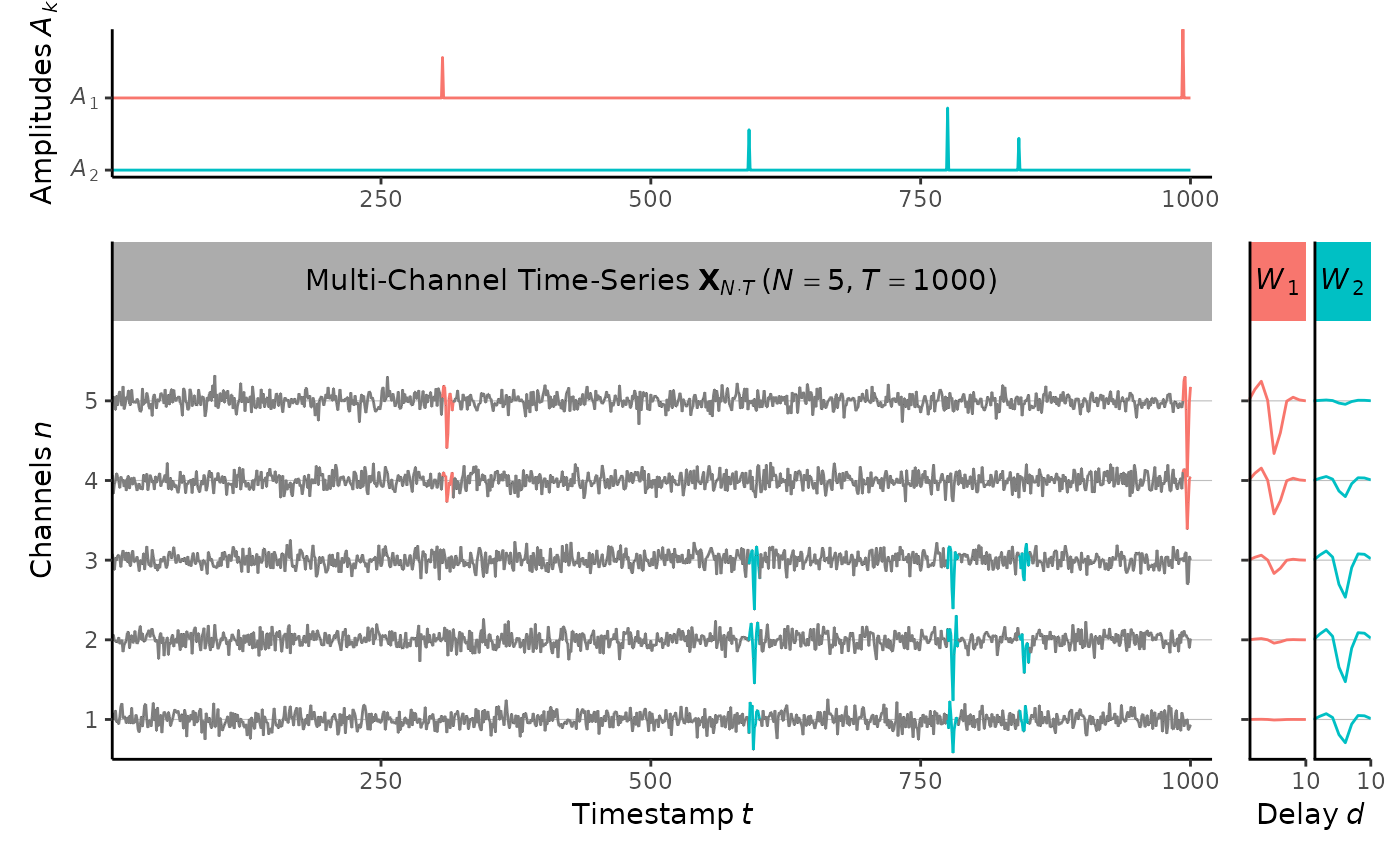
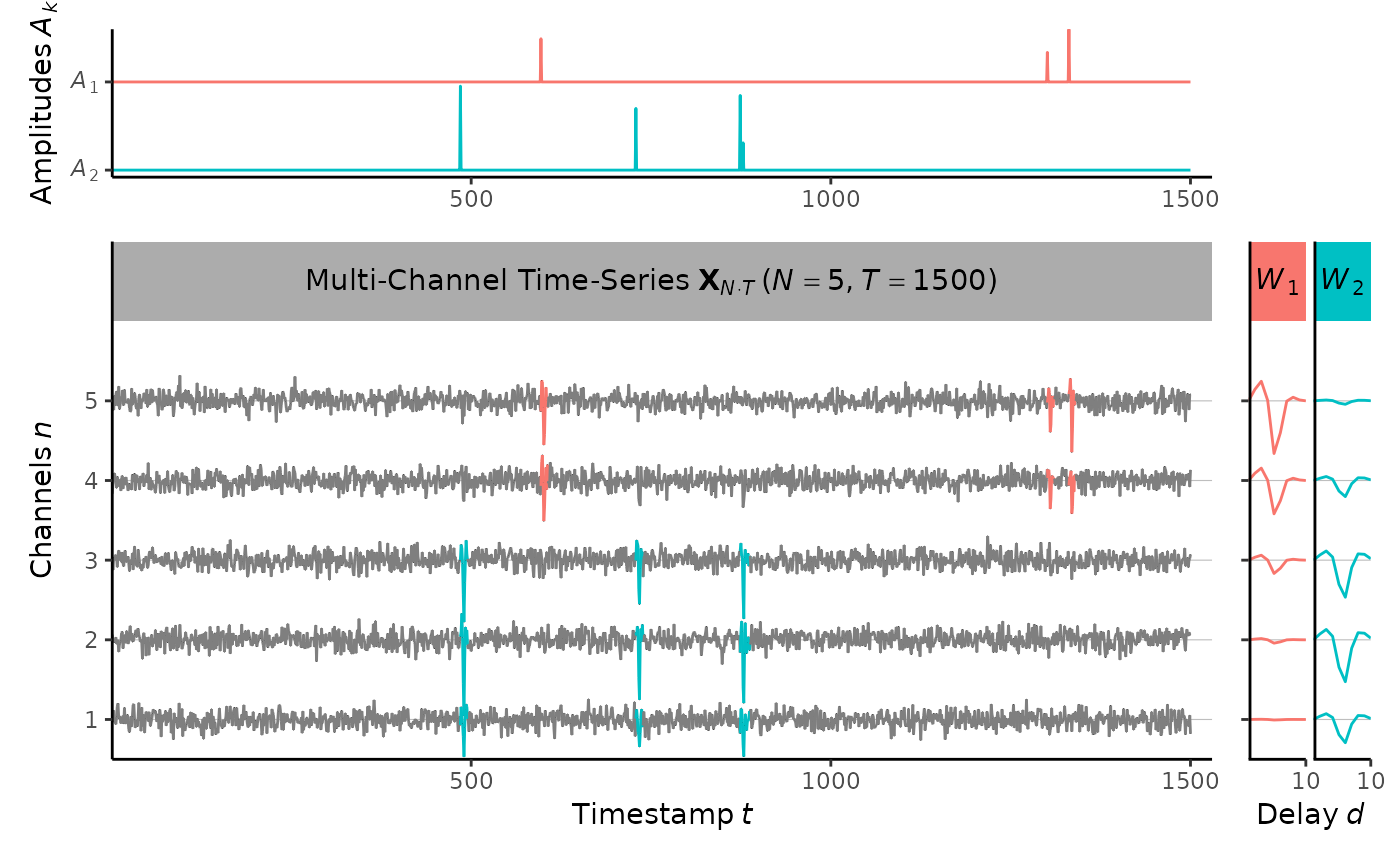
Deploying to gh-pages from @ rinseo/convNMF@e9a0b8d55024a8e35f2d3087408af4d8833c507f 🚀

diff --git a/articles/getting-started.html b/articles/getting-started.html
@@ -78,7 +78,7 @@
 <code class="sourceCode R"><span><span class="fu"><a href="https://rdrr.io/r/base/Random.html" class="external-link">set.seed</a></span><span class="op">(</span><span class="fl">1</span><span class="op">)</span></span>
 <span><span class="va">init</span> <span class="op">&lt;-</span> <span class="fu"><a href="../reference/generate.html">generate</a></span><span class="op">(</span></span>
 <span>  num_channels<span class="op">=</span><span class="fl">5</span>, <span class="co"># number of channels</span></span>
-<span>  num_samples<span class="op">=</span><span class="fl">1000</span>, <span class="co"># number of samples</span></span>
+<span>  num_samples<span class="op">=</span><span class="fl">1500</span>, <span class="co"># number of samples</span></span>
 <span>  sample_freq<span class="op">=</span><span class="fl">3000</span>, <span class="co"># number of samples per unit time</span></span>
 <span>  num_neurons<span class="op">=</span><span class="fl">2</span>, <span class="co"># number of neurons</span></span>
 <span>  warp<span class="op">=</span><span class="kw">function</span><span class="op">(</span><span class="va">x</span><span class="op">)</span> <span class="op">-</span><span class="fu"><a href="https://rdrr.io/r/base/Log.html" class="external-link">exp</a></span><span class="op">(</span><span class="op">-</span><span class="va">x</span><span class="op">)</span> <span class="op">+</span> <span class="fl">1</span>, <span class="co"># negative spike</span></span>
@@ -117,10 +117,10 @@
 <span>  tol<span class="op">=</span><span class="fl">1e-04</span>, <span class="co"># tolerance level</span></span>
 <span>  weight_wavelets<span class="op">=</span><span class="cn">FALSE</span> <span class="co"># re-normalize wavelets for behavioral data</span></span>
 <span><span class="op">)</span></span>
-<span><span class="co">#&gt; Using (N x T) = (5 x 1000) data.</span></span>
+<span><span class="co">#&gt; Using (N x T) = (5 x 1500) data.</span></span>
 <span><span class="co">#&gt; Generating (K x N x D) = (2 x 5 x 10) wavelets.</span></span>
-<span><span class="co">#&gt; Initializing (K x T) = (2 x 1000) amplitudes.</span></span>
-<span><span class="co">#&gt; Iteration [3/50] Convergence detected!</span></span>
+<span><span class="co">#&gt; Initializing (K x T) = (2 x 1500) amplitudes.</span></span>
+<span><span class="co">#&gt; Iteration [6/50] Convergence detected!</span></span>
 <span><span class="fu"><a href="https://rdrr.io/r/graphics/plot.default.html" class="external-link">plot</a></span><span class="op">(</span><span class="va">est</span><span class="op">)</span></span></code></pre></div>
 <p><img src="getting-started_files/figure-html/unnamed-chunk-2-1.png" width="700"></p>
 <div class="sourceCode" id="cb5"><pre class="downlit sourceCode r">
@@ -136,21 +136,21 @@
 <p><img src="getting-started_files/figure-html/unnamed-chunk-3-1.png" width="700"></p>
 <div class="sourceCode" id="cb7"><pre class="downlit sourceCode r">
 <code class="sourceCode R"><span><span class="fu"><a href="https://rdrr.io/r/base/sprintf.html" class="external-link">sprintf</a></span><span class="op">(</span><span class="st">"logLik = %.2f"</span>,<span class="fu"><a href="https://rdrr.io/r/stats/logLik.html" class="external-link">logLik</a></span><span class="op">(</span><span class="va">est</span><span class="op">)</span><span class="op">)</span></span>
-<span><span class="co">#&gt; [1] "logLik = -7215.36"</span></span>
+<span><span class="co">#&gt; [1] "logLik = -10781.12"</span></span>
 <span><span class="fu"><a href="https://rdrr.io/r/base/sprintf.html" class="external-link">sprintf</a></span><span class="op">(</span><span class="st">"%% power explained = %.2f"</span>,<span class="fu"><a href="../reference/power_explained.html">power_explained</a></span><span class="op">(</span><span class="va">est</span><span class="op">)</span><span class="op">)</span></span>
-<span><span class="co">#&gt; [1] "% power explained = 0.14"</span></span>
+<span><span class="co">#&gt; [1] "% power explained = 0.15"</span></span>
 <span><span class="fu"><a href="https://rdrr.io/r/base/sprintf.html" class="external-link">sprintf</a></span><span class="op">(</span><span class="st">"Sequenciness = %.2f"</span>,<span class="fu"><a href="../reference/sequenciness.html">sequenciness</a></span><span class="op">(</span><span class="va">est</span><span class="op">)</span><span class="op">)</span></span>
 <span><span class="co">#&gt; [1] "Sequenciness = 1.00"</span></span>
 <span><span class="fu"><a href="../reference/confusion_matrix.html">confusion_matrix</a></span><span class="op">(</span><span class="va">init</span>, <span class="va">est</span><span class="op">)</span></span>
 <span><span class="co">#&gt;                      (Prediction)</span></span>
 <span><span class="co">#&gt;                        Positive   Negative</span></span>
-<span><span class="co">#&gt; (Reference) Positive        130          0</span></span>
-<span><span class="co">#&gt;             Negative          0       4870</span></span>
+<span><span class="co">#&gt; (Reference) Positive        150          0</span></span>
+<span><span class="co">#&gt;             Negative         12       7338</span></span>
 <span><span class="co">#&gt; ------------------------------------------</span></span>
-<span><span class="co">#&gt;             Accuracy: TP/(TP+FN+FP) = 1.00 </span></span>
-<span><span class="co">#&gt;               Recall: TP/(TP+FN)    = 1.00 </span></span>
+<span><span class="co">#&gt;             Accuracy: TP/(TP+FN+FP) = 0.93 </span></span>
+<span><span class="co">#&gt;               Recall: TP/(TP+FN)    = 0.93 </span></span>
 <span><span class="co">#&gt;            Precision: TP/(TP+FP)    = 1.00 </span></span>
-<span><span class="co">#&gt;            Miss rate: FN/(TP+FN)    = 0.00 </span></span>
+<span><span class="co">#&gt;            Miss rate: FN/(TP+FN)    = 0.07 </span></span>
 <span><span class="co">#&gt; False discovery rate: FP/(TP+FP)    = 0.00</span></span>
 <span><span class="co"># extract_spikes(est) # based on 95% spikes</span></span></code></pre></div>
 </div>
@@ -164,11 +164,11 @@
 <span>  <span class="va">diss_list</span><span class="op">[</span><span class="va">K</span><span class="op">]</span> <span class="op">&lt;-</span> <span class="fu"><a href="../reference/compute_diss_matrix.html">compute_diss_matrix</a></span><span class="op">(</span><span class="va">est</span>, num_neurons<span class="op">=</span><span class="va">K</span><span class="op">)</span><span class="op">$</span><span class="va">mean_diss</span></span>
 <span>  <span class="fu"><a href="https://rdrr.io/r/base/print.html" class="external-link">print</a></span><span class="op">(</span><span class="fu"><a href="https://rdrr.io/r/base/sprintf.html" class="external-link">sprintf</a></span><span class="op">(</span><span class="st">"%d: %.2f"</span>,<span class="va">K</span>,<span class="va">diss_list</span><span class="op">[</span><span class="va">K</span><span class="op">]</span><span class="op">)</span><span class="op">)</span></span>
 <span><span class="op">}</span></span>
-<span><span class="co">#&gt; [1] "1: 0.16"</span></span>
-<span><span class="co">#&gt; [1] "2: 0.06"</span></span>
-<span><span class="co">#&gt; [1] "3: 0.33"</span></span>
-<span><span class="co">#&gt; [1] "4: 0.47"</span></span>
-<span><span class="co">#&gt; [1] "5: 0.56"</span></span>
+<span><span class="co">#&gt; [1] "1: 0.00"</span></span>
+<span><span class="co">#&gt; [1] "2: 0.04"</span></span>
+<span><span class="co">#&gt; [1] "3: 0.31"</span></span>
+<span><span class="co">#&gt; [1] "4: 0.48"</span></span>
+<span><span class="co">#&gt; [1] "5: 0.58"</span></span>
 <span><span class="fu"><a href="https://rdrr.io/r/graphics/plot.default.html" class="external-link">plot</a></span><span class="op">(</span><span class="va">diss_list</span>, type<span class="op">=</span><span class="st">"b"</span>, xlab<span class="op">=</span><span class="st">"K"</span>, ylab<span class="op">=</span><span class="st">"Dissimiliarity"</span><span class="op">)</span></span></code></pre></div>
 <p><img src="getting-started_files/figure-html/unnamed-chunk-4-1.png" width="700"></p>
 </div>

diff --git a/reference/convNMF.html b/reference/convNMF.html
@@ -58,7 +58,7 @@
 <span>  amp_rate <span class="op">=</span> <span class="fl">3</span>,</span>
 <span>  wavelet_rank <span class="op">=</span> <span class="fl">1</span>,</span>
 <span>  num_iters <span class="op">=</span> <span class="fl">50</span>,</span>
-<span>  tol <span class="op">=</span> <span class="fl">1e-06</span>,</span>
+<span>  tol <span class="op">=</span> <span class="fl">1e-04</span>,</span>
 <span>  weight_wavelets <span class="op">=</span> <span class="cn">FALSE</span>,</span>
 <span>  show_progress <span class="op">=</span> <span class="cn">TRUE</span></span>
 <span><span class="op">)</span></span></code></pre></div>
